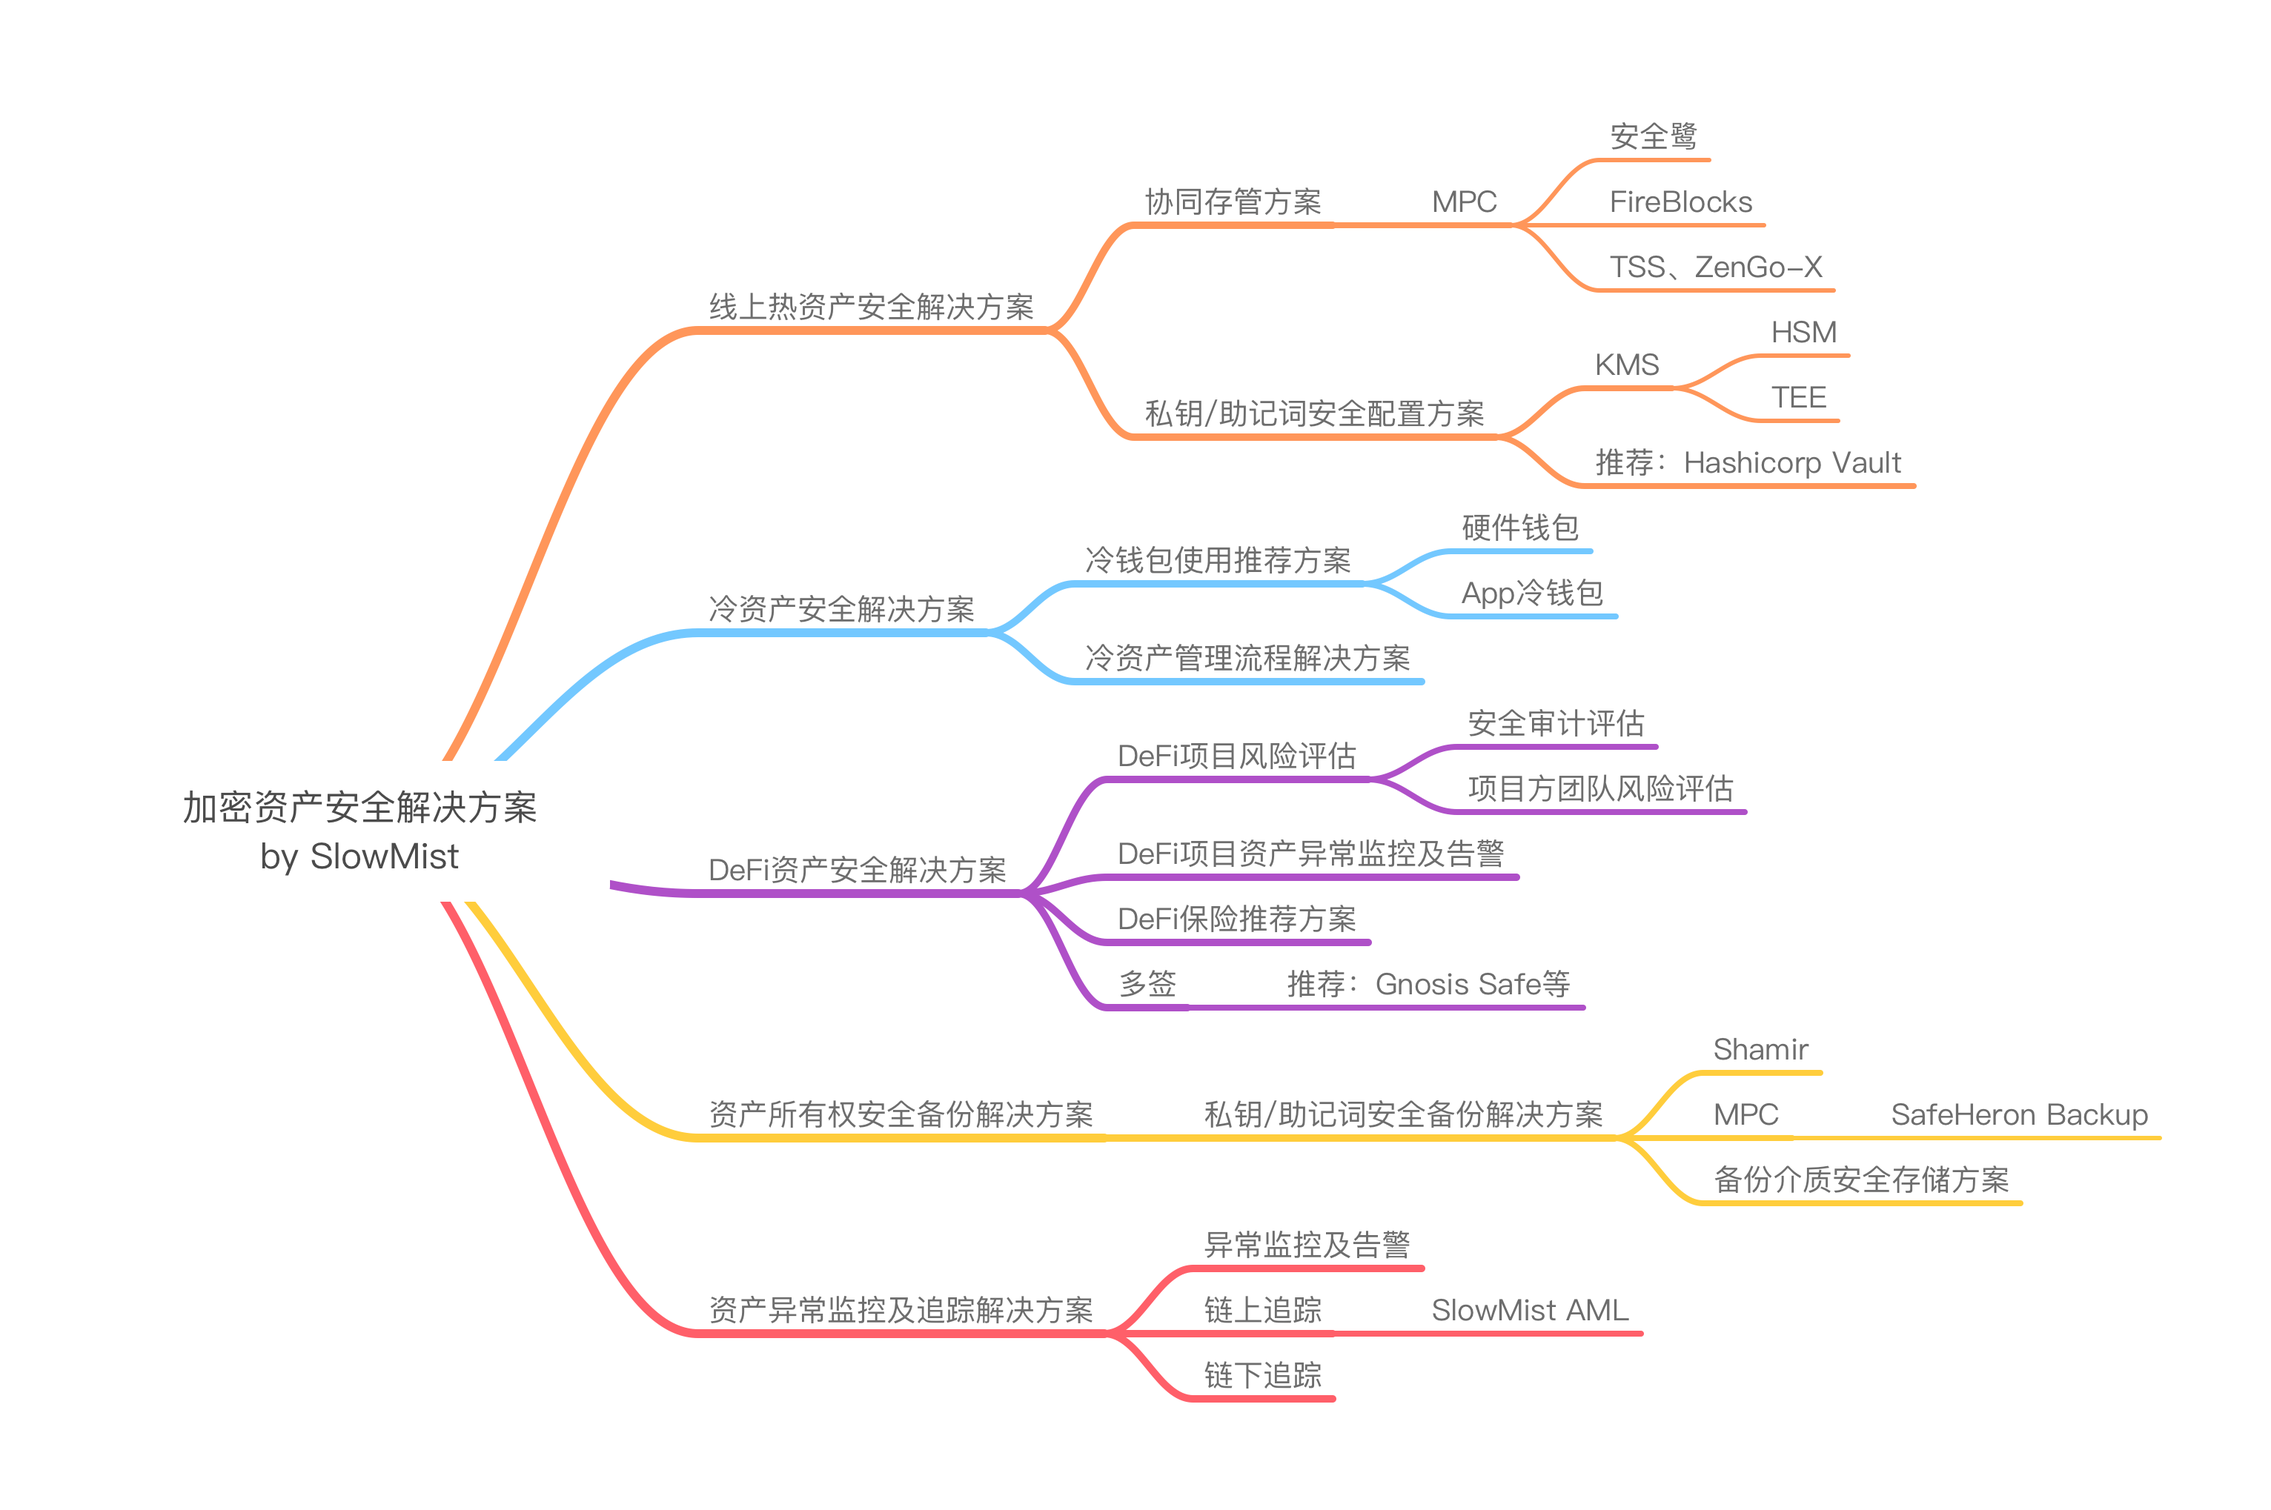
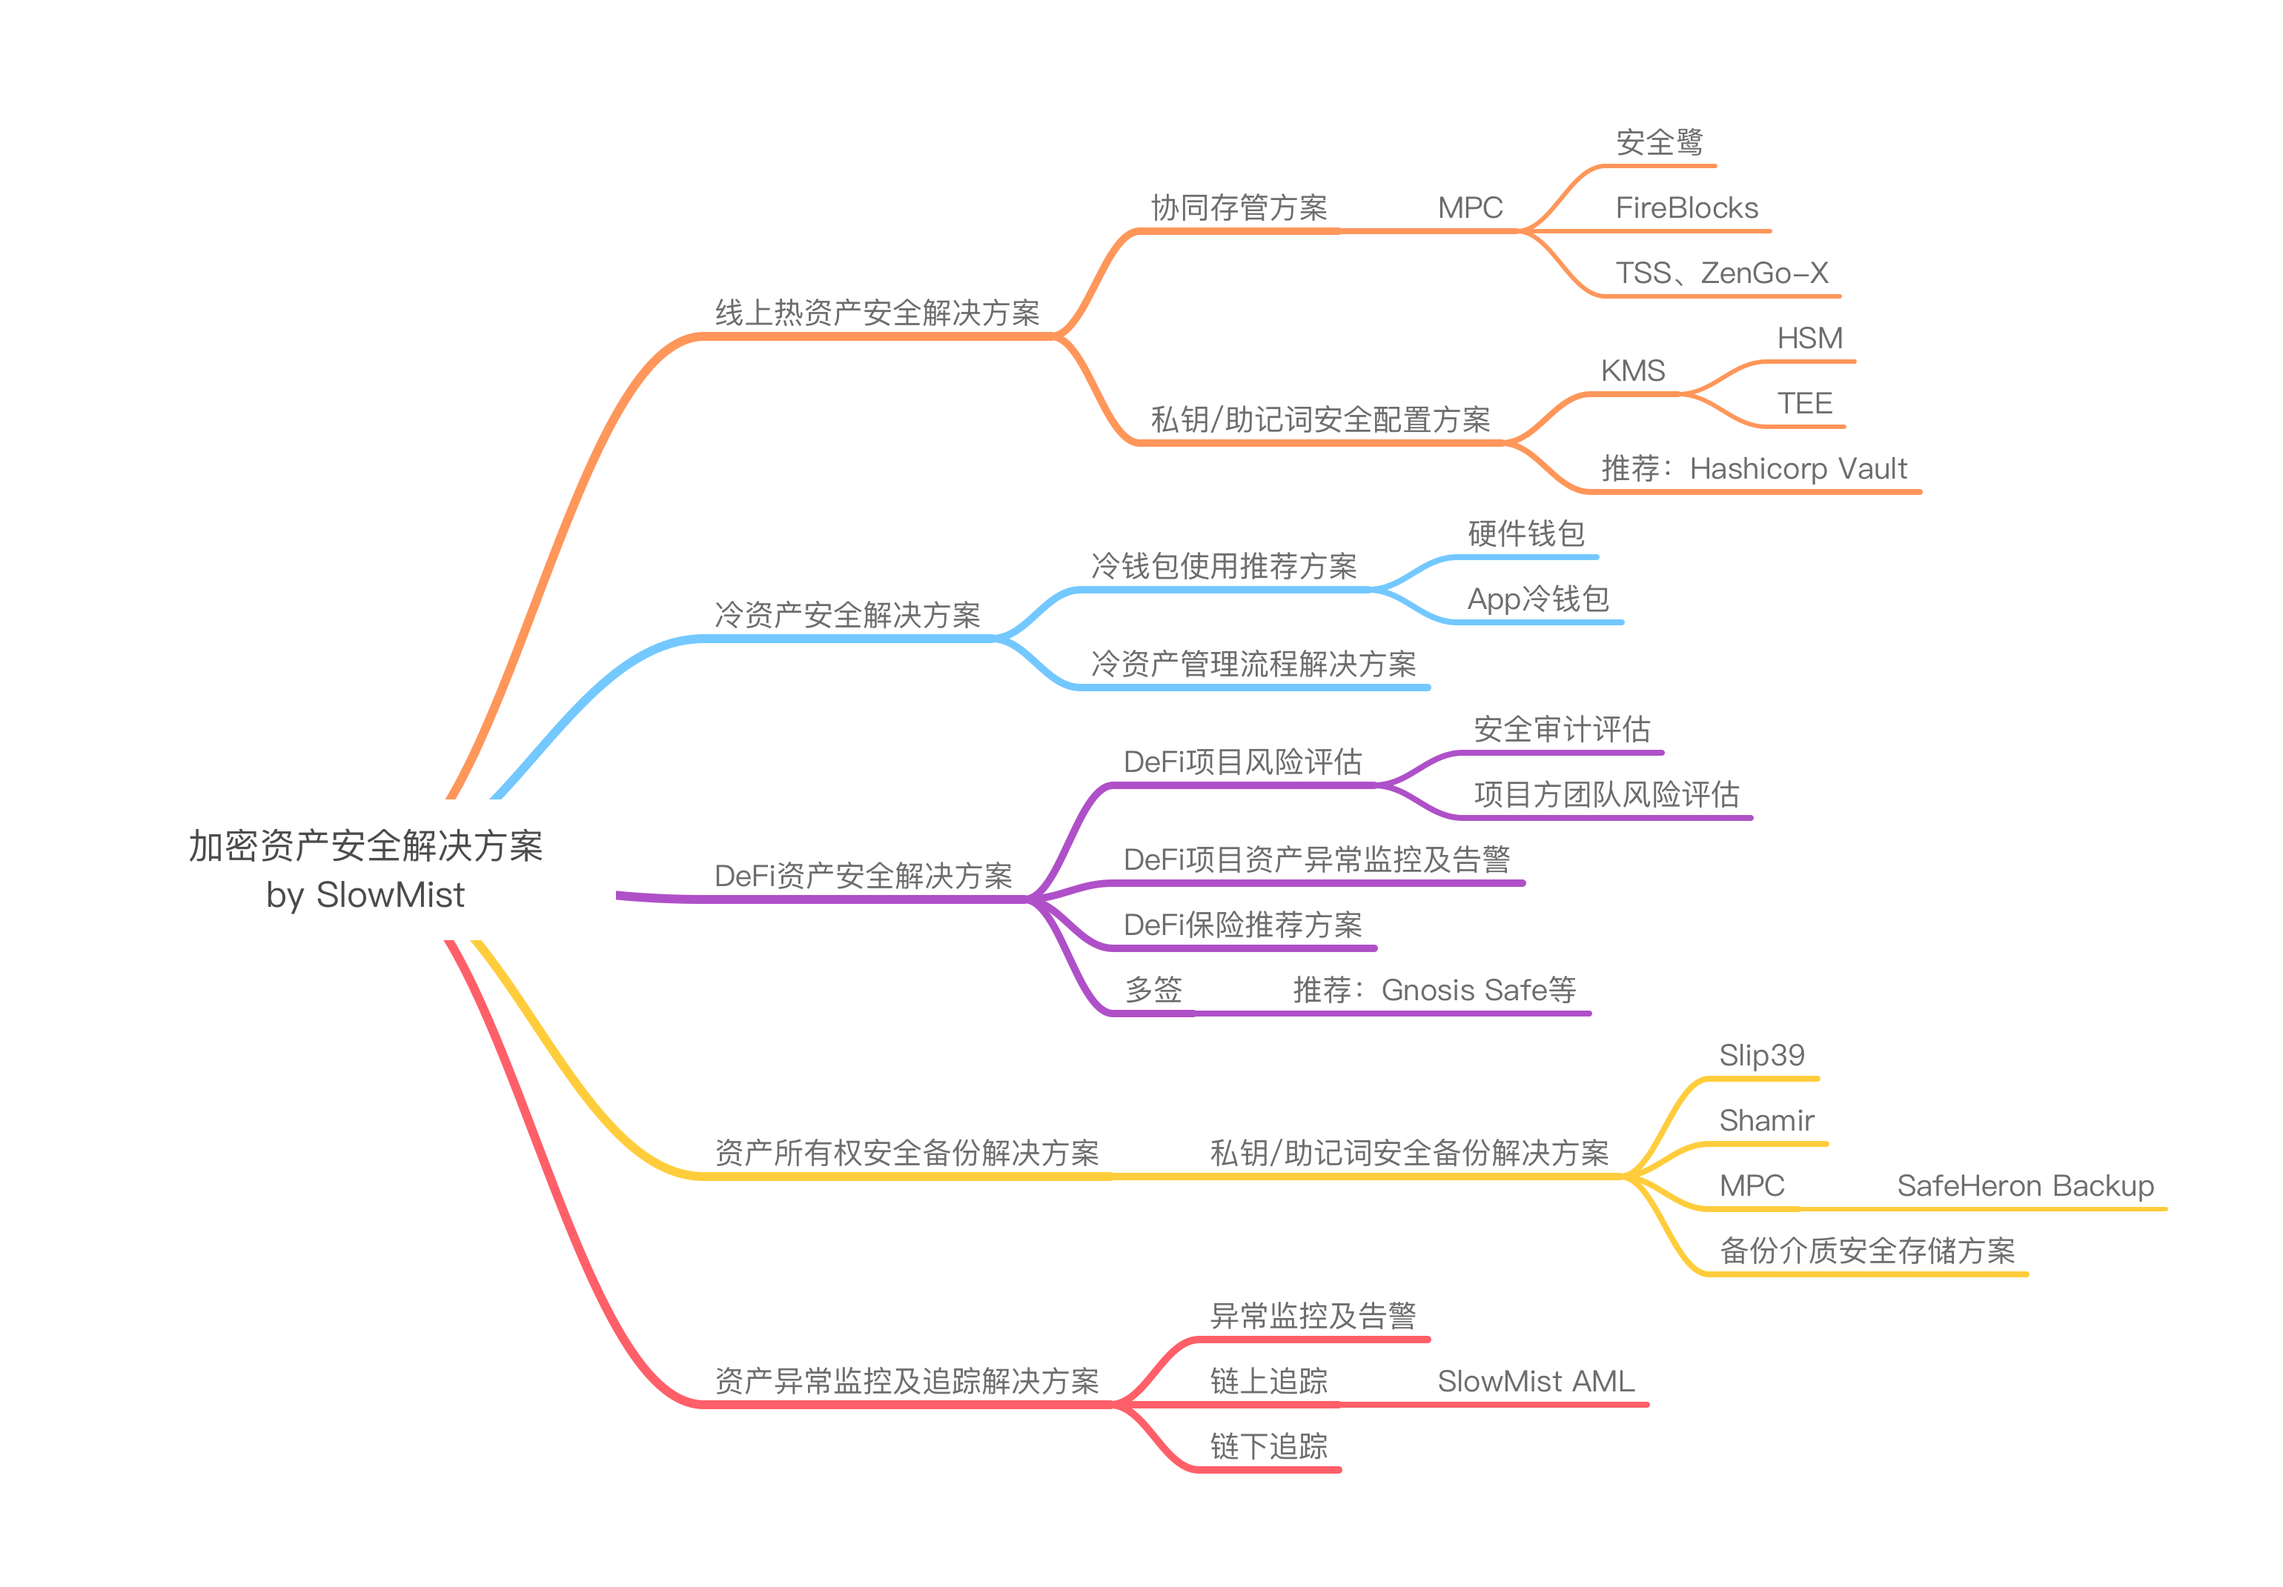
Backup add Slip39

diff --git a/en/Asset-Ownership-Backup-Security-Solution.md b/en/Asset-Ownership-Backup-Security-Solution.md
@@ -9,6 +9,11 @@ For the backup of private keys/mnemonics, you can also consider reducing single 
 
 ![](images/Backup1.png)
 
+## Slip39
+Enhanced 20-word backup standard ensures a more robust process for backing up and recovering your wallet compared to the legacy standard. With an upgraded, user-friendly wordlist and seamless transition to Multi-share Backup, SLIP39 offers superior security with no single point of failure. Technically, it is based on Shamir's algorithm, forming a more generalized standard for cryptocurrency mnemonic phrases.
+
+Detailed introduction: https://content.trezor.io/slip39
+
 ## Shamir
 The Shamir secret sharing mechanism splits the secret and distributes it to a group of people. In this algorithm, the original secret is split into n parts in an appropriate way, and each part after splitting is distributed to different participants. The configuration of the algorithm determines how many participants are ultimately required to cooperate to recover the original secret. When using the Shamir secret sharing mechanism to protect large-capacity data, the symmetric key is generally split and stored in a distributed manner, instead of directly applying the Shamir algorithm to the data. This is because the capacity of the secret to be split must be smaller than that used by the secret sharing algorithm some of the data. The UNIX/Linux version of this algorithm is called ssss, and other operating systems or programming languages have similar applications and development libraries.
 

diff --git a/Asset-Ownership-Backup-Security-Solution.md b/Asset-Ownership-Backup-Security-Solution.md
@@ -9,6 +9,11 @@
 
 ![](images/Backup1.png)
 
+## Slip39
+增强的 20 个单词备份标准，比传统标准拥有更可靠的钱包备份和恢复流程。SLIP39 提供了升级的、用户友好的单词列表，并能无缝过渡到多份备份（Multi-share Backup），安全性更高，彻底消除了单点故障的风险。技术上是基于Shamir算法，形成了针对加密货币助记词更加通用的标准。
+
+详细介绍：https://content.trezor.io/slip39
+
 ## Shamir
 Shamir秘密共享机制将秘密拆分后分发给一群人。在这个算法中，原始秘密以适当的方式被拆分成n部分，并将拆分后的每一部分分发给不同的参与者。算法的配置决定了最终需要多少个参与者协作才能恢复原始秘密。当使用Shamir秘密共享机制保护大容量数据时，一般将对称密钥拆分并进行分布式存储，而非直接针对数据运用Shamir算法，这是因为待拆分的秘密容量必须小于秘密共享算法所使用的某些数据。这个算法的UNIX/Linux版本被称为ssss，其他操作系统或编程语言也有相似的应用和开发库。
 
